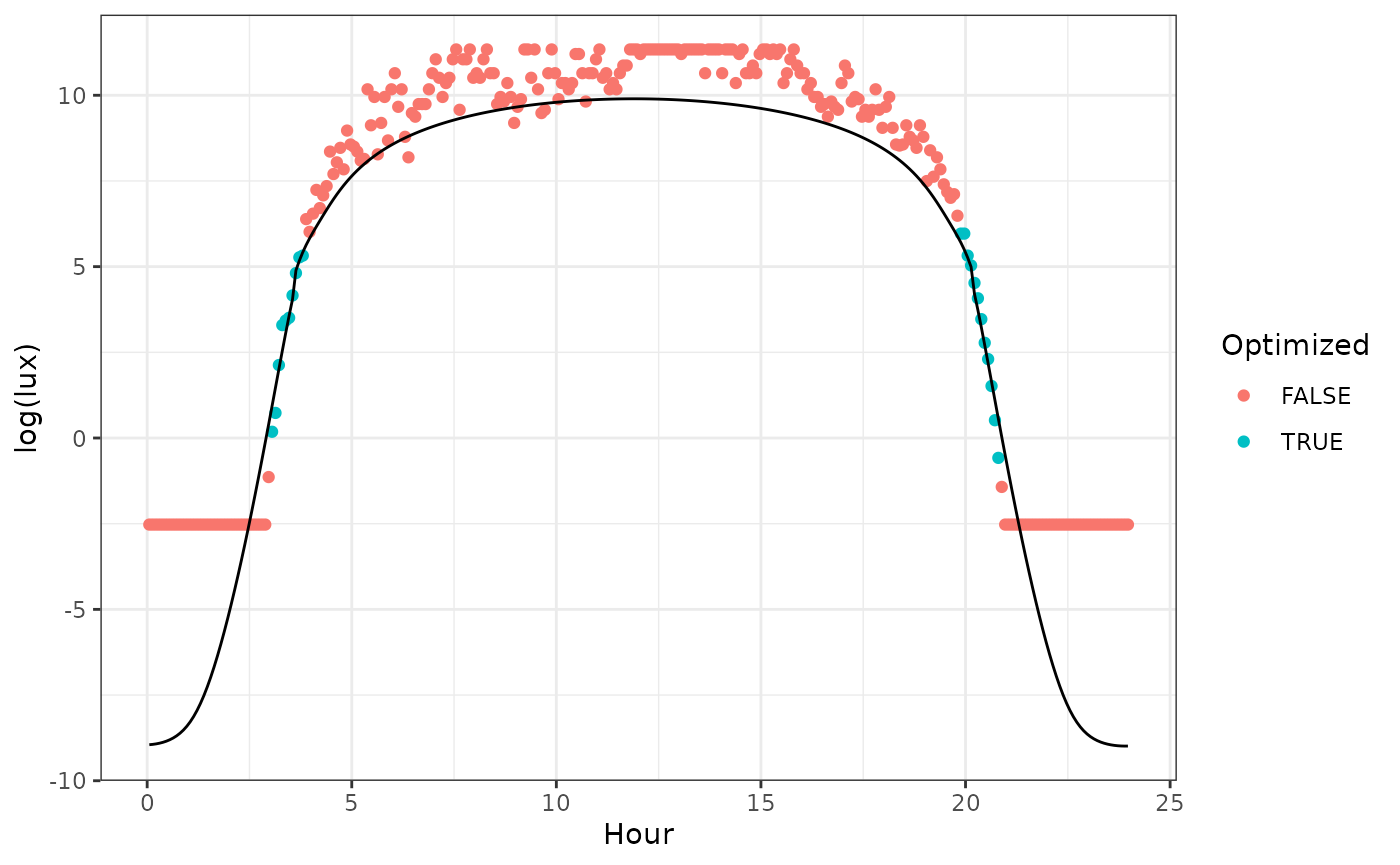
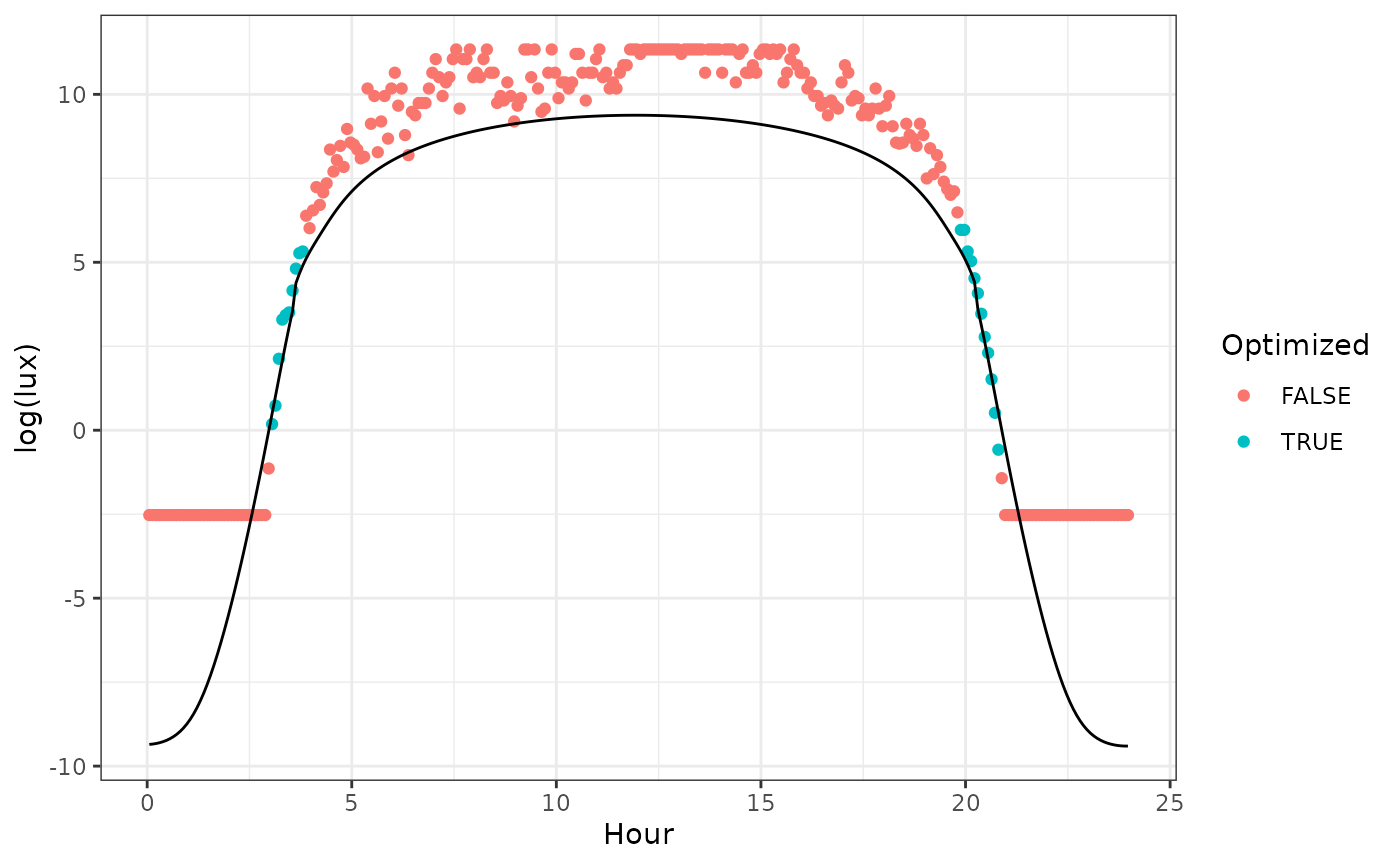
Deploying to gh-pages from @ bluegreen-labs/skytrackr@6a92c3b97bfa889e1999be0275260a95b158348a 🚀

diff --git a/reference/stk_profile.html b/reference/stk_profile.html
@@ -1,0 +1,142 @@
+<!DOCTYPE html>
+<!-- Generated by pkgdown: do not edit by hand --><html lang="en"><head><meta http-equiv="Content-Type" content="text/html; charset=UTF-8"><meta charset="utf-8"><meta http-equiv="X-UA-Compatible" content="IE=edge"><meta name="viewport" content="width=device-width, initial-scale=1.0"><title>Plot seasonal profiles — stk_profile • skytrackr</title><!-- favicons --><link rel="icon" type="image/png" sizes="16x16" href="/favicon-16x16.png"><link rel="icon" type="image/png" sizes="32x32" href="/favicon-32x32.png"><link rel="apple-touch-icon" type="image/png" sizes="180x180" href="/apple-touch-icon.png"><!-- jquery --><script src="https://cdnjs.cloudflare.com/ajax/libs/jquery/3.4.1/jquery.min.js" integrity="sha256-CSXorXvZcTkaix6Yvo6HppcZGetbYMGWSFlBw8HfCJo=" crossorigin="anonymous"></script><!-- Bootstrap --><link rel="stylesheet" href="https://cdnjs.cloudflare.com/ajax/libs/twitter-bootstrap/3.4.1/css/bootstrap.min.css" integrity="sha256-bZLfwXAP04zRMK2BjiO8iu9pf4FbLqX6zitd+tIvLhE=" crossorigin="anonymous"><script src="https://cdnjs.cloudflare.com/ajax/libs/twitter-bootstrap/3.4.1/js/bootstrap.min.js" integrity="sha256-nuL8/2cJ5NDSSwnKD8VqreErSWHtnEP9E7AySL+1ev4=" crossorigin="anonymous"></script><!-- bootstrap-toc --><link rel="stylesheet" href="../bootstrap-toc.css"><script src="../bootstrap-toc.js"></script><!-- Font Awesome icons --><link rel="stylesheet" href="https://cdnjs.cloudflare.com/ajax/libs/font-awesome/5.11.1/css/all.min.css" integrity="sha256-PbSmjxuVAzJ6FPvNYsrXygfGhNJYyZ2GktDbkMBqQZg=" crossorigin="anonymous"><link rel="stylesheet" href="https://cdnjs.cloudflare.com/ajax/libs/font-awesome/5.11.1/css/v4-shims.min.css" integrity="sha256-A6jcAdwFD48VMjlI3GDxUd+eCQa7/KWy6G9oe/ovaPA=" crossorigin="anonymous"><!-- Fonts --><link rel="preconnect" href="https://fonts.googleapis.com"><link rel="preconnect" href="https://fonts.gstatic.com" crossorigin><link href="https://fonts.googleapis.com/css2?family=Titillium+Web:ital,wght@0,300;0,400;0,700;1,300;1,400&amp;display=swap" rel="stylesheet"><!-- clipboard.js --><script src="https://cdnjs.cloudflare.com/ajax/libs/clipboard.js/2.0.4/clipboard.min.js" integrity="sha256-FiZwavyI2V6+EXO1U+xzLG3IKldpiTFf3153ea9zikQ=" crossorigin="anonymous"></script><!-- headroom.js --><script src="https://cdnjs.cloudflare.com/ajax/libs/headroom/0.9.4/headroom.min.js" integrity="sha256-DJFC1kqIhelURkuza0AvYal5RxMtpzLjFhsnVIeuk+U=" crossorigin="anonymous"></script><script src="https://cdnjs.cloudflare.com/ajax/libs/headroom/0.9.4/jQuery.headroom.min.js" integrity="sha256-ZX/yNShbjqsohH1k95liqY9Gd8uOiE1S4vZc+9KQ1K4=" crossorigin="anonymous"></script><!-- pkgdown --><link href="../pkgdown.css" rel="stylesheet"><script src="../pkgdown.js"></script><!-- ropensci --><link href="../bglabs.css" rel="stylesheet"><meta property="og:title" content="Plot seasonal profiles — stk_profile"><meta property="og:description" content="Uses plotly to provide a seasonal profile plot"><meta name="twitter:card" content="summary"><!-- Mathjax --><script src="https://cdnjs.cloudflare.com/ajax/libs/mathjax/2.7.6/MathJax.js" async integrity="sha256-nlrDrBTHxJJlDDX22AS33xYI1OJHnGMDhiYMSe2U0e0=" crossorigin="anonymous"></script><script src="https://cdnjs.cloudflare.com/ajax/libs/mathjax/2.7.6/config/TeX-AMS-MML_HTMLorMML.js" async integrity="sha256-4zys9A4hMQmtq2EUL+JRoXc0NZi8jVJMzb8onewOaSQ=" crossorigin="anonymous"></script></head><body data-spy="scroll" data-target="#toc">
+    
+
+    <div class="container template-reference-topic">
+      <header><div class="navbar navbar-default navbar-fixed-top" role="navigation">
+  <div class="container">
+
+    <div class="navbar-header">
+
+      <button type="button" class="navbar-toggle collapsed" data-toggle="collapse" data-target="#navbar" aria-expanded="false">
+        <span class="sr-only">Toggle navigation</span>
+        <span class="icon-bar"></span>
+        <span class="icon-bar"></span>
+        <span class="icon-bar"></span>
+      </button>
+
+      <div class="navbar-brand-container">
+        <a class="external-link hidden-sm hidden-xs" href="https://bluegreenlabs.org">
+          <img src="https://bluegreenlabs.org/img/logo_text_small.png" id="hexlogo" alt="bluegreen labs"></a>
+        <a class="external-link hidden-md hidden-lg" href="https://bluegreenlabs.org">
+          <img src="https://bluegreenlabs.org/img/logo.png" id="hexlogo" alt="bluegreen labs"></a>
+        <a class="navbar-brand" href="../index.html">
+           <i>skytrackr <small>v0.9</small></i>
+        </a>
+      </div>
+    </div>
+
+    <div id="navbar" class="navbar-collapse collapse">
+      <ul class="nav navbar-nav navbar-right"><li>
+  <a href="../reference/index.html">Reference</a>
+</li>
+<li class="dropdown">
+  <a href="#" class="dropdown-toggle" data-toggle="dropdown" role="button" data-bs-toggle="dropdown" aria-expanded="false">
+    Articles
+     
+    <span class="caret"></span>
+  </a>
+  <ul class="dropdown-menu" role="menu"><li>
+      <a href="../articles/introduction.html">The skytrackr R package</a>
+    </li>
+  </ul></li>
+        <li>
+  <a href="https://github.com/bluegreen-labs/skytrackr/" class="external-link">
+    <span class="fab fa-github fa-lg"></span>
+     
+  </a>
+</li>
+      </ul></div><!--/.nav-collapse -->
+  </div><!--/.container -->
+</div><!--/.navbar -->
+
+      
+
+      </header><div class="row">
+  <div class="col-md-9 contents">
+    <div class="page-header">
+    <h1>Plot seasonal profiles</h1>
+    <small class="dont-index">Source: <a href="https://github.com/bluegreen-labs/skytrackr/blob/HEAD/R/stk_plot_profile.R" class="external-link"><code>R/stk_plot_profile.R</code></a></small>
+    <div class="hidden name"><code>stk_profile.Rd</code></div>
+    </div>
+
+    <div class="ref-description">
+    <p>Uses plotly to provide a seasonal profile plot</p>
+    </div>
+
+    <div id="ref-usage">
+    <div class="sourceCode"><pre class="sourceCode r"><code><span><span class="fu">stk_profile</span><span class="op">(</span><span class="va">data</span>, <span class="va">logger</span>, range <span class="op">=</span> <span class="fu"><a href="https://rdrr.io/r/base/c.html" class="external-link">c</a></span><span class="op">(</span><span class="fl">0.32</span>, <span class="fl">400</span><span class="op">)</span><span class="op">)</span></span></code></pre></div>
+    </div>
+
+    <div id="arguments">
+    <h2>Arguments</h2>
+    <dl><dt>data</dt>
+<dd><p>skytrackr compatible data frame</p></dd>
+
+
+<dt>logger</dt>
+<dd><p>the logger to plot</p></dd>
+
+
+<dt>range</dt>
+<dd><p>the light range to plot</p></dd>
+
+</dl></div>
+    <div id="value">
+    <h2>Value</h2>
+    
+
+<p>a plotly dynamic graph of light levels for a given logger</p>
+    </div>
+
+  </div>
+  <div class="col-md-3 hidden-xs hidden-sm" id="pkgdown-sidebar">
+    <nav id="toc" data-toggle="toc" class="sticky-top"><h2 data-toc-skip>Contents</h2>
+    </nav></div>
+</div>
+
+
+      <footer><!-- begin footer --><div class="footer">
+    <div class="container">
+        <div class="row start bottom-8">
+            <div class="col-xs-10">
+                <div class="row">
+                    <div class="col-md-4 col-xs-6">
+                        <a href="http://github.com/bluegreen-labs" target="_blank" class="external-link">
+                          <div class="icon fab fa-github"></div></a>
+                        <a href="https://bluegreenlabs.org/labs/" target="_blank" class="external-link">
+                          <div class="icon fa fa-flask"></div></a>
+                        <a href="http://twitter.com/bluegreen_labs" target="_blank" class="external-link">
+                          <div class="icon fab fa-twitter"></div></a>
+                    </div>
+                </div>
+                <div class="row top-4">
+                    <div class="col-md-2 col-sm-4">
+                        <ul><h5 class="bottom-2">About</h5>
+                            <li><a href="https://bluegreenlabs.org/#intro" class="external-link">BlueGreen Labs</a></li>
+                            <li><a href="https://bluegreenlabs.org/#people" class="external-link">Our Team</a></li>
+                            <li><a href="https://bluegreenlabs.org/#contact" class="external-link">Contact Us</a></li>
+                        </ul></div>
+                    <div class="col-md-2 col-sm-4">
+                        <ul><h5 class="bottom-2">Resources</h5>
+                            <li><a href="https://github.com/bluegreen-labs" class="external-link">Packages</a></li>
+                            <li><a href="https://bluegreenlabs.org/publication/" class="external-link">Publications</a></li>
+                            <li><a href="https://bluegreenlabs.org/post/" class="external-link">Blog</a></li>
+                        </ul></div>
+
+                </div>
+            </div>
+        </div>
+    </div>
+</div>
+<!-- / end footer -->
+
+      </footer></div>
+
+  
+
+
+  
+
+  </body></html>
+

diff --git a/reference/stk_fit.html b/reference/stk_fit.html
@@ -67,14 +67,7 @@ to estimate locations (parameters).</p>
     </div>
 
     <div id="ref-usage">
-    <div class="sourceCode"><pre class="sourceCode r"><code><span><span class="fu">stk_fit</span><span class="op">(</span></span>
-<span>  <span class="va">data</span>,</span>
-<span>  <span class="va">iterations</span>,</span>
-<span>  bbox <span class="op">=</span> <span class="fu"><a href="https://rdrr.io/r/base/c.html" class="external-link">c</a></span><span class="op">(</span><span class="op">-</span><span class="fl">180</span>, <span class="op">-</span><span class="fl">90</span>, <span class="fl">180</span>, <span class="fl">90</span><span class="op">)</span>,</span>
-<span>  scale <span class="op">=</span> <span class="fu"><a href="https://rdrr.io/r/base/c.html" class="external-link">c</a></span><span class="op">(</span><span class="fl">1</span>, <span class="fl">10</span><span class="op">)</span>,</span>
-<span>  control <span class="op">=</span> <span class="fu"><a href="https://rdrr.io/r/base/list.html" class="external-link">list</a></span><span class="op">(</span>sampler <span class="op">=</span> <span class="st">"SMC"</span>, settings <span class="op">=</span> <span class="fu"><a href="https://rdrr.io/r/base/list.html" class="external-link">list</a></span><span class="op">(</span>initialParticles <span class="op">=</span> <span class="fl">100</span>, iterations <span class="op">=</span></span>
-<span>    <span class="fl">10</span>, message <span class="op">=</span> <span class="cn">FALSE</span><span class="op">)</span><span class="op">)</span></span>
-<span><span class="op">)</span></span></code></pre></div>
+    <div class="sourceCode"><pre class="sourceCode r"><code><span><span class="fu">stk_fit</span><span class="op">(</span><span class="va">data</span>, <span class="va">iterations</span>, <span class="va">bbox</span>, <span class="va">scale</span>, <span class="va">control</span><span class="op">)</span></span></code></pre></div>
     </div>
 
     <div id="arguments">
@@ -99,7 +92,8 @@ implement a Hill-Ekstrom template fitting</p></dd>
 
 
 <dt>control</dt>
-<dd><p>control settings for the Bayesian optimization</p></dd>
+<dd><p>control settings for the Bayesian optimization, forwarded by
+skytrackr()</p></dd>
 
 </dl></div>
     <div id="value">

diff --git a/reference/skytrackr.html b/reference/skytrackr.html
@@ -72,10 +72,10 @@ those modelled by the sky illuminance model of xyz.</p>
 <span>  <span class="va">start_location</span>,</span>
 <span>  tolerance <span class="op">=</span> <span class="fl">15</span>,</span>
 <span>  iterations <span class="op">=</span> <span class="fl">20</span>,</span>
-<span>  particles <span class="op">=</span> <span class="fl">200</span>,</span>
+<span>  particles <span class="op">=</span> <span class="fl">100</span>,</span>
 <span>  range <span class="op">=</span> <span class="fu"><a href="https://rdrr.io/r/base/c.html" class="external-link">c</a></span><span class="op">(</span><span class="fl">0.32</span>, <span class="fl">400</span><span class="op">)</span>,</span>
 <span>  bbox <span class="op">=</span> <span class="fu"><a href="https://rdrr.io/r/base/c.html" class="external-link">c</a></span><span class="op">(</span><span class="op">-</span><span class="fl">180</span>, <span class="op">-</span><span class="fl">90</span>, <span class="fl">180</span>, <span class="fl">90</span><span class="op">)</span>,</span>
-<span>  scale <span class="op">=</span> <span class="fu"><a href="https://rdrr.io/r/base/c.html" class="external-link">c</a></span><span class="op">(</span><span class="fl">0</span>, <span class="fl">20</span><span class="op">)</span>,</span>
+<span>  scale <span class="op">=</span> <span class="fu"><a href="https://rdrr.io/r/base/c.html" class="external-link">c</a></span><span class="op">(</span><span class="fl">1</span>, <span class="fl">10</span><span class="op">)</span>,</span>
 <span>  control <span class="op">=</span> <span class="fu"><a href="https://rdrr.io/r/base/list.html" class="external-link">list</a></span><span class="op">(</span>sampler <span class="op">=</span> <span class="st">"SMC"</span>, settings <span class="op">=</span> <span class="fu"><a href="https://rdrr.io/r/base/list.html" class="external-link">list</a></span><span class="op">(</span>initialParticles <span class="op">=</span> <span class="fl">100</span>, iterations <span class="op">=</span></span>
 <span>    <span class="fl">10</span>, message <span class="op">=</span> <span class="cn">FALSE</span><span class="op">)</span><span class="op">)</span>,</span>
 <span>  plot <span class="op">=</span> <span class="cn">FALSE</span>,</span>

diff --git a/articles/introduction.html b/articles/introduction.html
@@ -261,10 +261,12 @@ posterior parameter distribution.</p>
 <span></span>
 <span><span class="co"># print the optimized parameters (i.e. the locations)</span></span>
 <span><span class="fu"><a href="https://rdrr.io/r/base/print.html" class="external-link">print</a></span><span class="op">(</span><span class="va">location</span><span class="op">)</span></span>
-<span><span class="co">#&gt;   longitude latitude latitude_qt_5 latitude_qt_95 longitude_qt_5</span></span>
-<span><span class="co">#&gt; 1  2.836517 52.90565      52.71634       53.34287       2.688571</span></span>
-<span><span class="co">#&gt;   longitude_qt_95 sky_conditions grb  n       date</span></span>
-<span><span class="co">#&gt; 1        2.844491       5.120414  NA 22 2021-07-11</span></span></code></pre></div>
+<span><span class="co">#&gt;   latitude longitude sky_conditions latitude_qt_50 longitude_qt_50</span></span>
+<span><span class="co">#&gt; 1 53.26693  2.348918       8.563788       53.26693        2.348918</span></span>
+<span><span class="co">#&gt;   latitude_qt_5 latitude_qt_95 longitude_qt_5 longitude_qt_95</span></span>
+<span><span class="co">#&gt; 1      53.26693       53.26693       2.348918        2.348918</span></span>
+<span><span class="co">#&gt;   sky_conditions_qt_50 grb  n       date</span></span>
+<span><span class="co">#&gt; 1             8.563788  NA 16 2021-07-11</span></span></code></pre></div>
 <p>Note that the returned location estimates are very close to the
 original location of the colony (51.8 N/ 3.73 E). These parameters can
 be fed back into the original (underlying) algorithm to calculate the

diff --git a/reference/index.html b/reference/index.html
@@ -83,6 +83,10 @@
         </td>
         <td><p>Fit illuminance (lux) profile</p></td>
       </tr><tr><td>
+          <p><code><a href="stk_profile.html">stk_profile()</a></code> </p>
+        </td>
+        <td><p>Plot seasonal profiles</p></td>
+      </tr><tr><td>
           <p><code><a href="stk_read_glf.html">stk_read_glf()</a></code> </p>
         </td>
         <td><p>Read GLF files</p></td>
